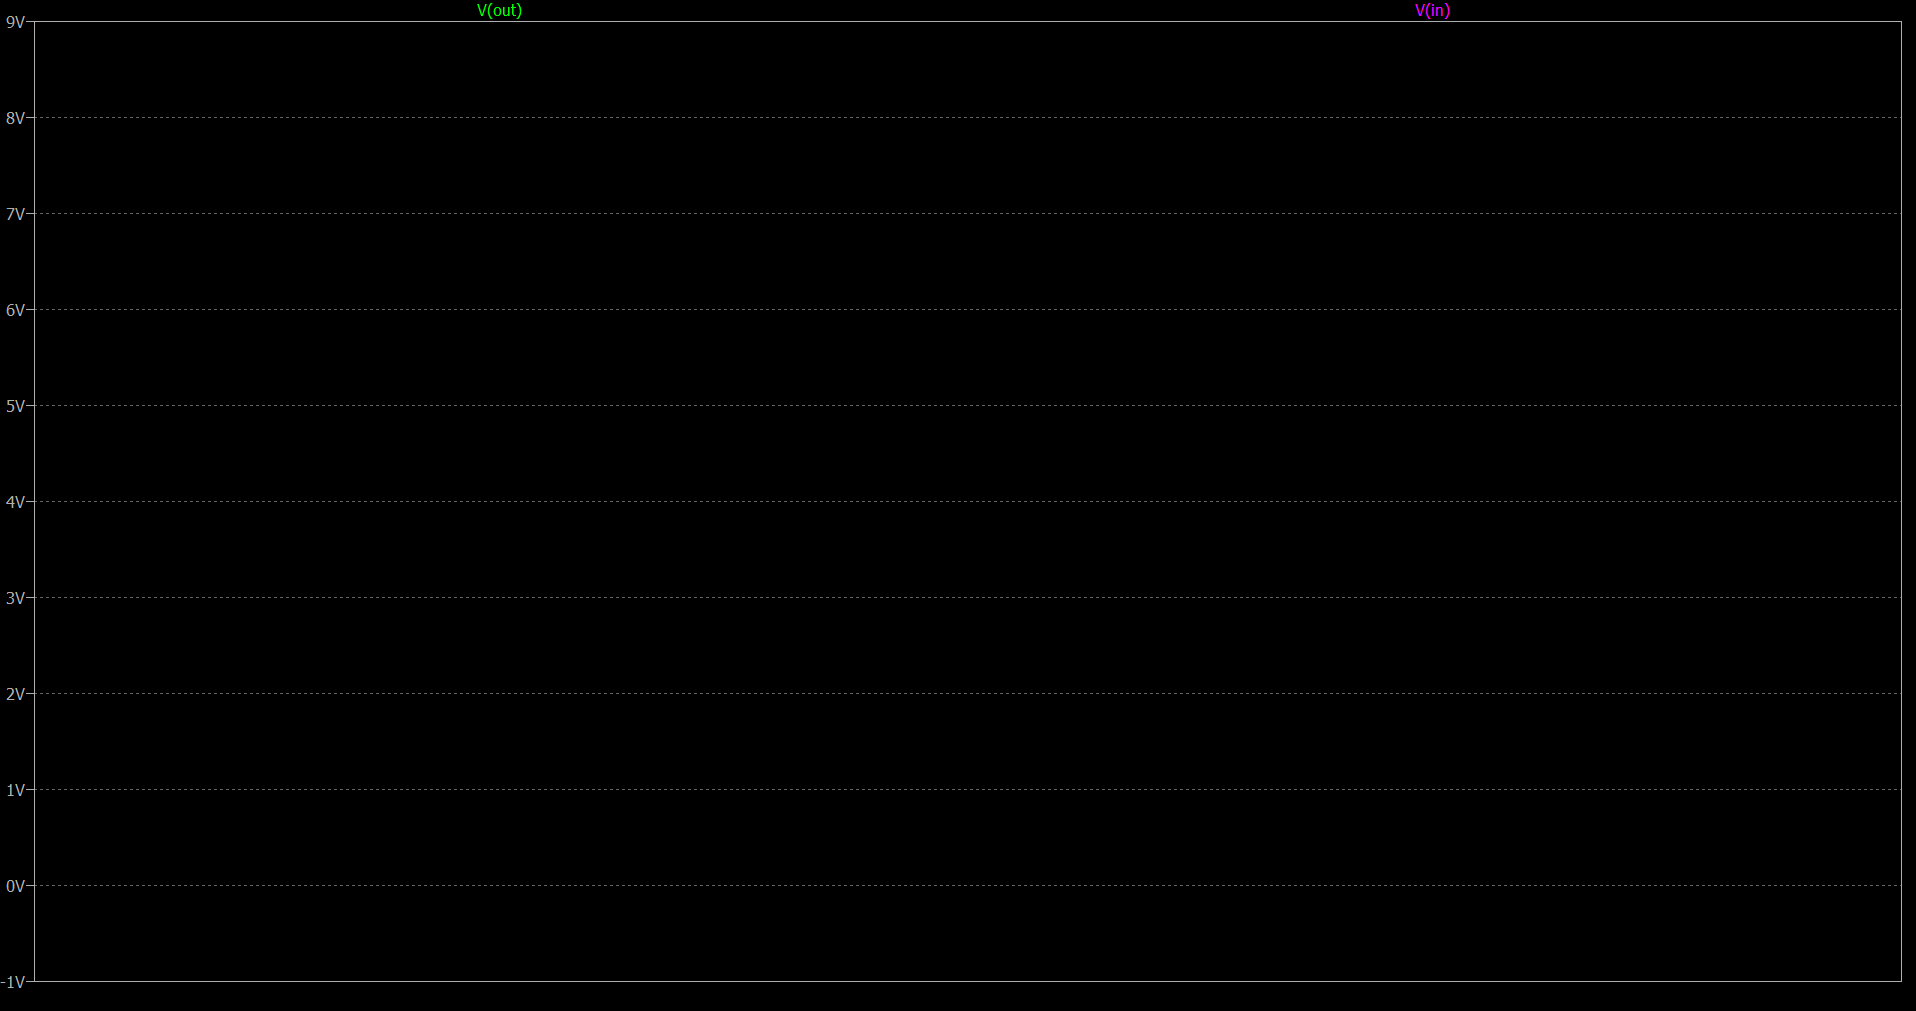
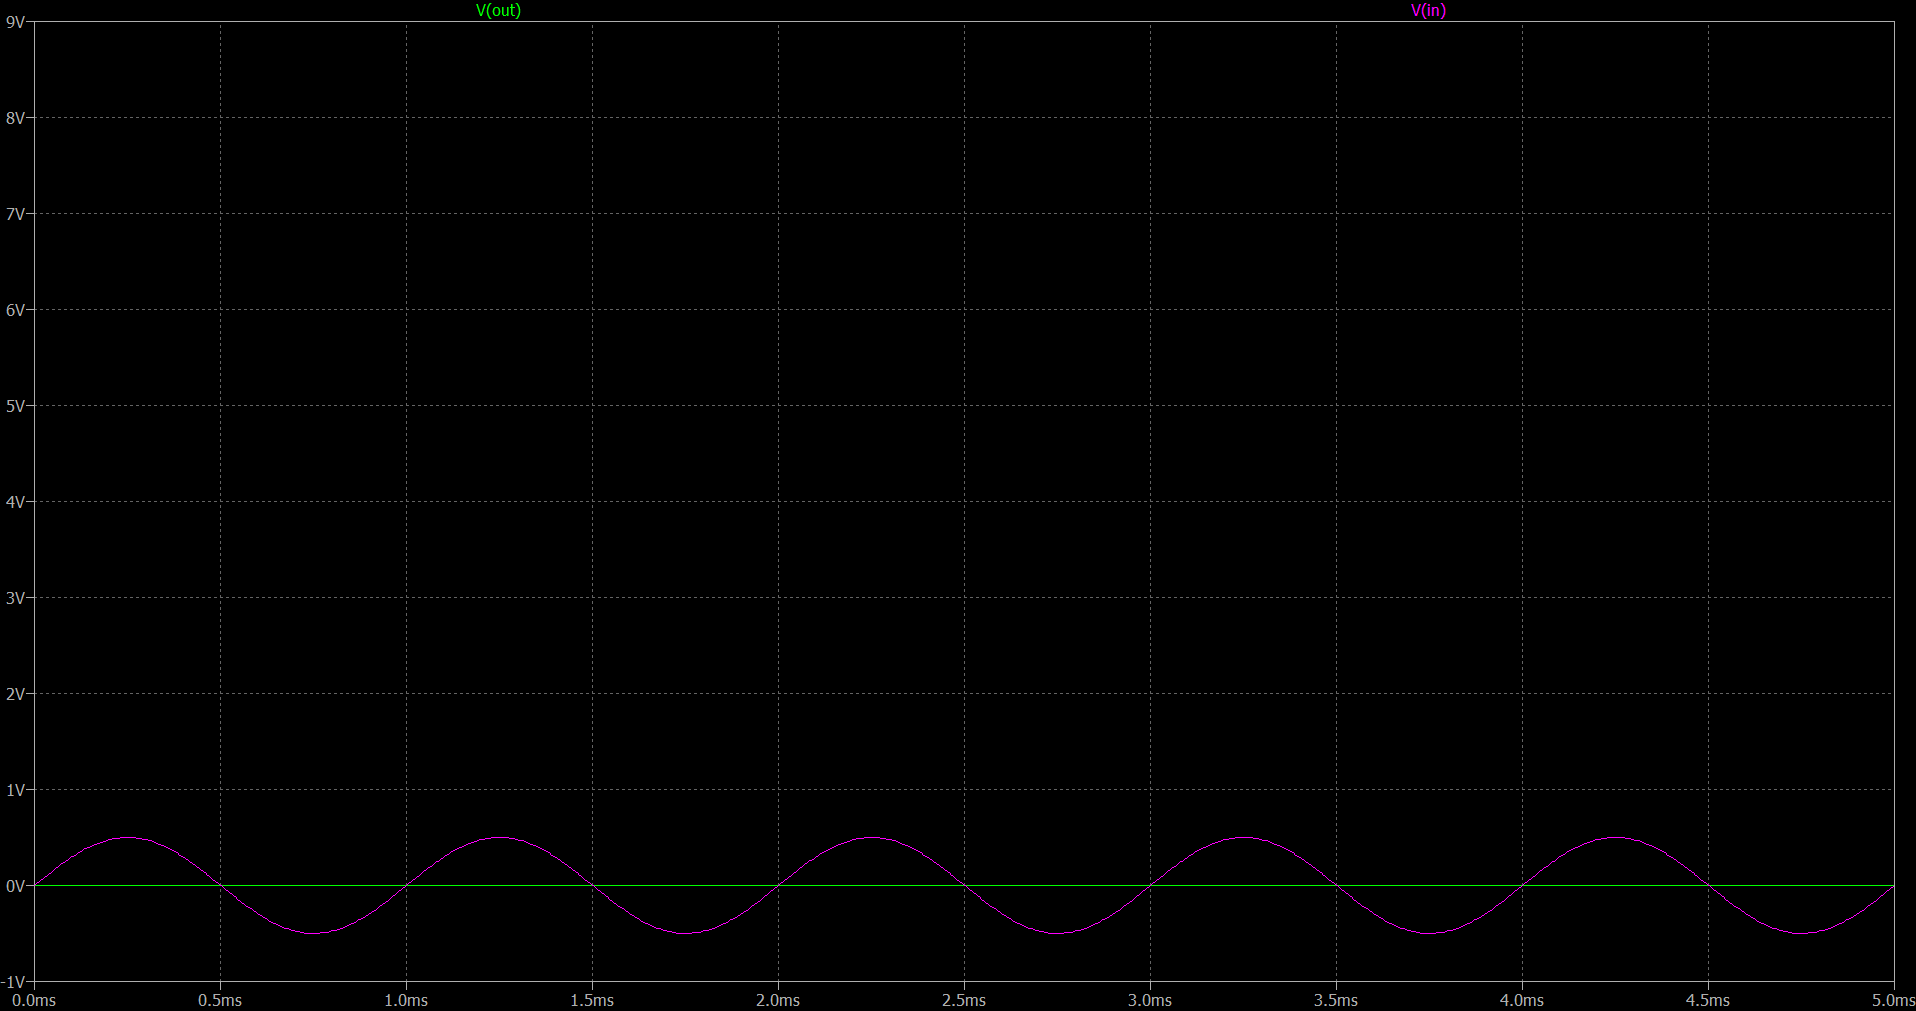
Fix plot windows that fell outside the saved data
Ten transient plots carried an X axis written in absolute time, while the
waveform viewer numbers a saved window from zero. Those panes drew their grid
and their trace labels but no traces and no x axis, so the images committed
with the colour swap were blank. Each X range is now relative to the start of
the saved window, and all ten plots are recaptured.

The colour swap had also skipped every FFT view. The two diode ring mixer
spectra draw three traces each, so the second one was still blue, including
the FFT on the front page. Both now carry explicit colours in the collection's
order, as does the alternative model's transient view, and all three images
are recaptured.

diff --git a/167 - How a Diode Ring Mixer works - Mixer operation theory and measurement/CIRCUIT_NOTES.md b/167 - How a Diode Ring Mixer works - Mixer operation theory and measurement/CIRCUIT_NOTES.md
@@ -65,6 +65,6 @@ The [alternative T1-6T-X65+ schematic](01%20-%20Diode%20ring%20mixer/Alternative
 
 > **After opening this FFT in LTspice, press Ctrl+Space.** This reloads its predefined plot settings; otherwise LTspice may show a GHz-wide default view that hides the MHz peaks at the left edge.
 
-The alternative uses `.tran 0 40u 20u 10p`, the same timing as the main spectrum schematic. Its 20-40 µs saved interval gives a 20 µs FFT record and **50 kHz bin spacing**. The FFT image above is captured from this alternative circuit, with the same 2-20 MHz frequency range and +10 to −110 dB magnitude range as the main spectrum image. Its 3 MHz difference and 17 MHz sum peaks are both on the green `V(IF)` trace; the 7 MHz blue and 10 MHz red peaks identify the input sources. The peak frequencies match the main circuit; the alternative transformer assumptions can change their amplitudes and other harmonics. The [saved plot settings](<01 - Diode ring mixer/Alternative T1-6T-X65+ model/Diode ring mixer - T1-6T-X65+.plt>) retain the labeled FFT view. The [transformer subcircuit](<../LTspice/Models/Educational/T1_6T_X65.sub>) follows the physical pin arrangement, but its inductances and coupling are illustrative. It is **not** a Mini-Circuits manufacturer SPICE model and should not be used to predict the actual transformer's RF performance.
+The alternative uses `.tran 0 40u 20u 10p`, the same timing as the main spectrum schematic. Its 20-40 µs saved interval gives a 20 µs FFT record and **50 kHz bin spacing**. The FFT image above is captured from this alternative circuit, over a 2-20 MHz frequency range, with the same +10 to −110 dB magnitude range as the main spectrum image. Its 3 MHz difference and 17 MHz sum peaks are both on the green `V(IF)` trace; the 7 MHz magenta and 10 MHz red peaks identify the input sources. The peak frequencies match the main circuit; the alternative transformer assumptions can change their amplitudes and other harmonics. The [saved plot settings](<01 - Diode ring mixer/Alternative T1-6T-X65+ model/Diode ring mixer - T1-6T-X65+.plt>) retain the labeled FFT view. The [transformer subcircuit](<../LTspice/Models/Educational/T1_6T_X65.sub>) follows the physical pin arrangement, but its inductances and coupling are illustrative. It is **not** a Mini-Circuits manufacturer SPICE model and should not be used to predict the actual transformer's RF performance.
 
 To reproduce the FFT image in LTspice, run the alternative `.asc`, right-click the transient plot, and choose **View > FFT**. In the waveform dialog, Ctrl-click so **all three** traces, `V(if)`, `V(lo_src)`, and `V(rf_src)`, are selected. Keep the full 20 µs saved interval and click OK. LTspice initially opens a newly created FFT with its broad default frequency range, so choose **Plot Settings > Reload Plot Settings** (Ctrl+Space) in the FFT window. That restores the saved 2-20 MHz scale and peak labels. The FFT calculation is the same before and after reloading; only its display changes.
